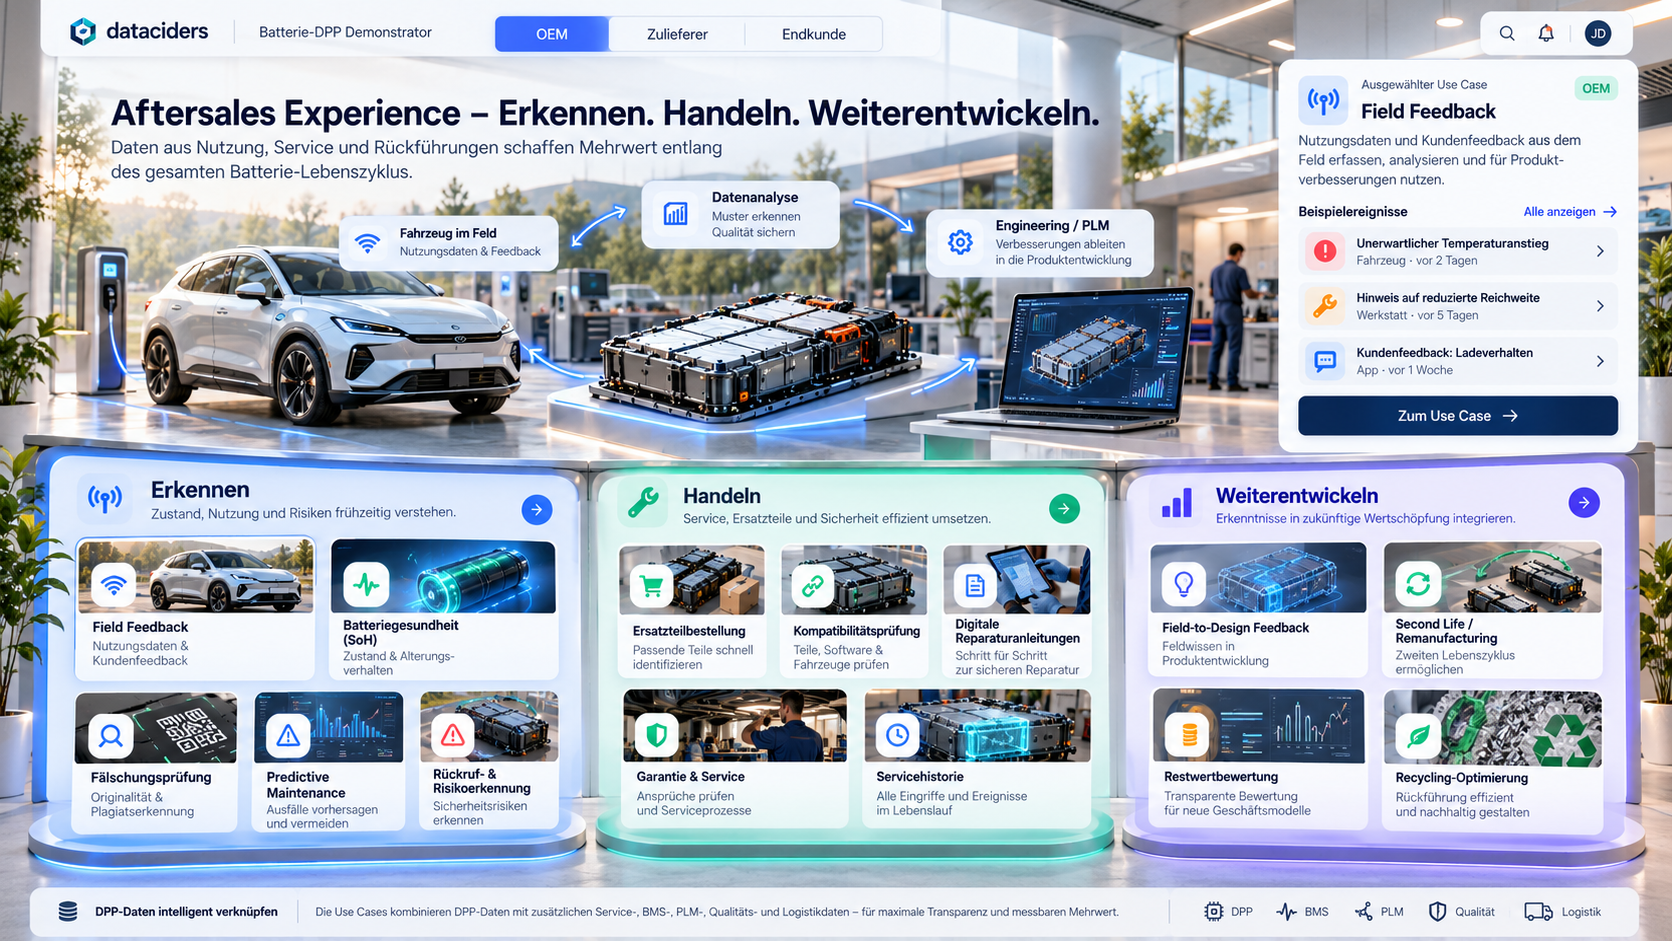
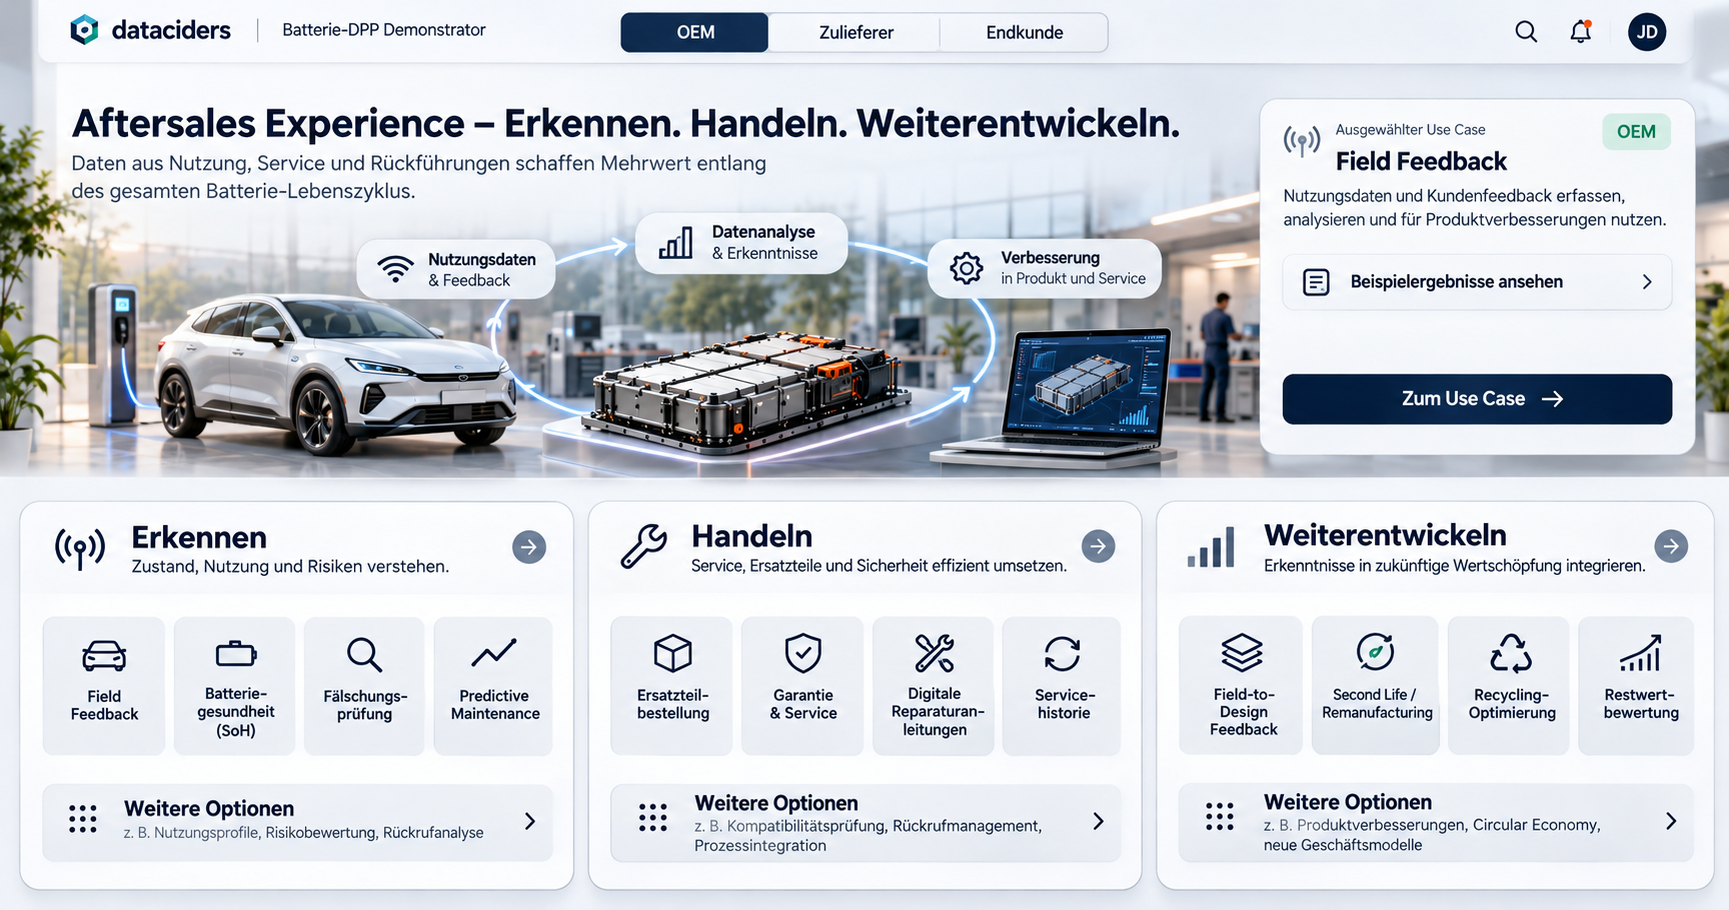
aftersales optimized

diff --git a/frontend/src/features/aftersales/AftersalesPage.tsx b/frontend/src/features/aftersales/AftersalesPage.tsx
@@ -1,15 +1,10 @@
+import { useDrawer } from '../../app/providers/DrawerProvider';
 import { ArrowChain } from '../../components/ui/Chain';
 import { Badge, DataValue } from '../../components/ui/DataValue';
 import { Icon, type IconName } from '../../components/ui/Icon';
 import { PageHero, SectionCard } from '../../components/ui/SectionCard';
-import { Tile } from '../../components/ui/Tile';
-import {
-  aftersalesEventKeys,
-  aftersalesFlowIds,
-  aftersalesGroups,
-  aftersalesSourceIds,
-} from '../../content/aftersales';
-import { useField, useSection } from '../../hooks/useContent';
+import { aftersalesFlowIds, aftersalesGroups, aftersalesSourceIds } from '../../content/aftersales';
+import { useSection } from '../../hooks/useContent';
 
 const GROUPS: { key: keyof typeof aftersalesGroups; title: string; sub: string; icon: IconName }[] = [
   { key: 'recognize', title: 'Erkennen', sub: 'Zustand, Nutzung und Risiken frühzeitig verstehen.', icon: 'pulse' },
@@ -17,11 +12,15 @@ const GROUPS: { key: keyof typeof aftersalesGroups; title: string; sub: string; 
   { key: 'improve', title: 'Weiterentwickeln', sub: 'Erkenntnisse in zukünftige Wertschöpfung integrieren.', icon: 'chart' },
 ];
 
+/** Je Gruppe erscheinen so viele Use Cases als Kachel, weitere als Zeile „Weitere Option“ darunter. */
+const TILES_PER_GROUP = 4;
+const FEATURED_USE_CASE_ID = 'aftersales.recognize.feedback';
+
 function FlowNode({ id }: { id: string }) {
   const s = useSection(id);
   return (
     <SectionCard id={id} className="flow-node">
-      <span className="chain__icon"><Icon name={s.icon ?? 'box'} size={22} /></span>
+      <span className="chain__icon"><Icon name={s.icon ?? 'box'} size={20} /></span>
       <span>
         <strong>{s.title}</strong>
         <span className="muted small flow-node__sub"><DataValue fieldKey={`${id}.sub`} /></span>
@@ -30,75 +29,104 @@ function FlowNode({ id }: { id: string }) {
   );
 }
 
-function EventRow({ fieldKey }: { fieldKey: string }) {
-  const f = useField(fieldKey);
+function FeaturedUseCase() {
+  const { openSection } = useDrawer();
+  const useCase = useSection(FEATURED_USE_CASE_ID);
   return (
-    <li className="event">
-      <span className={`dot dot--${f.tone ?? 'neutral'}`} />
-      <span>
-        <strong>{f.label}</strong>
-        <span className="muted small event__sub"><DataValue fieldKey={fieldKey} /></span>
+    <div className="card featured">
+      <div className="featured__head">
+        <span className="featured__icon"><Icon name="pulse" size={26} /></span>
+        <div>
+          <p className="muted small">Ausgewählter Use Case</p>
+          <h2>{useCase.title}</h2>
+        </div>
+        <Badge tone="ok">OEM</Badge>
+      </div>
+      <p className="muted">{useCase.summary}</p>
+      <button type="button" className="featured__row" onClick={() => openSection('aftersales.featured')}>
+        <Icon name="doc" />
+        <span>Beispielereignisse ansehen</span>
+        <Badge>Illustrativ</Badge>
+        <Icon name="chevron" size={16} />
+      </button>
+      <button type="button" className="btn btn--primary featured__cta" onClick={() => openSection(FEATURED_USE_CASE_ID)}>
+        Zum Use Case <Icon name="arrow" size={18} />
+      </button>
+    </div>
+  );
+}
+
+function UseCaseTile({ id }: { id: string }) {
+  const s = useSection(id);
+  return (
+    <SectionCard id={id} className="usecase">
+      <span className="usecase__icon"><Icon name={s.icon ?? 'box'} size={28} /></span>
+      <span className="usecase__title">{s.title}</span>
+    </SectionCard>
+  );
+}
+
+function MoreOption({ id }: { id: string }) {
+  const s = useSection(id);
+  return (
+    <SectionCard id={id} className="more-option">
+      <Icon name="dots" size={26} />
+      <span className="more-option__body">
+        <span className="muted small">Weitere Option</span>
+        <strong>{s.title}</strong>
       </span>
-    </li>
+      <Icon name="chevron" size={16} />
+    </SectionCard>
   );
 }
 
 export function AftersalesPage() {
   return (
     <div className="page">
-      <PageHero
-        title="Aftersales Experience"
-        strong="Erkennen. Handeln. Weiterentwickeln."
-        subtitle="Daten aus Nutzung, Service und Rückführungen schaffen Mehrwert entlang des gesamten Batterie-Lebenszyklus."
-      />
-
-      <div className="grid-aftersales-top">
-        <div className="card">
-          <h2 className="h-sm">Vom Feld zurück in die Entwicklung</h2>
-          <p className="muted">
-            Ein Kreislauf aus Beobachten, Auswerten und Verbessern: Was im Betrieb auffällt, wird analysiert und fließt als
-            Änderung in die nächste Produktrevision. Der Digitale Produktpass verknüpft alle Schritte mit demselben Produkt.
-          </p>
-          <ArrowChain ids={aftersalesFlowIds} className="flow">
-            {(id) => <FlowNode id={id} />}
-          </ArrowChain>
-        </div>
-
-        <SectionCard id="aftersales.featured" stretch={false}>
-          <div className="card__head">
-            <div>
-              <p className="muted small">Ausgewählter Use Case</p>
-              <h2>Field Feedback</h2>
-            </div>
-            <Badge tone="ok">OEM</Badge>
+      <section className="aftersales-stage">
+        <div className="aftersales-stage__main">
+          <PageHero
+            title="Aftersales Experience"
+            strong="Erkennen. Handeln. Weiterentwickeln."
+            subtitle="Daten aus Nutzung, Service und Rückführungen schaffen Mehrwert entlang des gesamten Batterie-Lebenszyklus."
+          />
+          <div className="aftersales-scene">
+            <ArrowChain ids={aftersalesFlowIds} className="flow">
+              {(id) => <FlowNode id={id} />}
+            </ArrowChain>
+            <img src="/images/aftersales/hero.webp" alt="" width="1000" height="160" />
           </div>
-          <p className="muted">Nutzungsdaten und Kundenfeedback aus dem Feld erfassen, analysieren und für Produktverbesserungen nutzen.</p>
-          <p className="small"><strong>Beispielereignisse</strong> <Badge>Illustrativ</Badge></p>
-          <ul className="events">
-            {aftersalesEventKeys.map((k) => (
-              <EventRow key={k} fieldKey={k} />
-            ))}
-          </ul>
-        </SectionCard>
-      </div>
+          <p className="muted small">
+            Vom Feld zurück in die Entwicklung: Was im Betrieb auffällt, wird analysiert und fließt als Änderung in die nächste
+            Produktrevision. Der Digitale Produktpass verknüpft alle Schritte mit demselben Produkt.
+          </p>
+        </div>
+        <FeaturedUseCase />
+      </section>
 
       <div className="grid-aftersales-groups">
-        {GROUPS.map((g) => (
-          <div key={g.key} className={`card group group--${g.key}`}>
-            <div className="group__head">
-              <span className="tile__icon"><Icon name={g.icon} /></span>
-              <div>
-                <h2>{g.title}</h2>
-                <p className="muted small">{g.sub}</p>
+        {GROUPS.map((g) => {
+          const ids = aftersalesGroups[g.key];
+          return (
+            <section key={g.key} className="card group" aria-labelledby={`group-${g.key}`}>
+              <div className="group__head">
+                <Icon name={g.icon} size={34} />
+                <div>
+                  <h2 id={`group-${g.key}`}>{g.title}</h2>
+                  <p className="muted small">{g.sub}</p>
+                </div>
               </div>
-            </div>
-            <div className="stack">
-              {aftersalesGroups[g.key].map((id) => (
-                <Tile key={id} id={id} fieldKey={`${id}.sub`} />
+              <div className="usecases">
+                {ids.slice(0, TILES_PER_GROUP).map((id) => (
+                  <UseCaseTile key={id} id={id} />
+                ))}
+              </div>
+              {ids.slice(TILES_PER_GROUP).map((id) => (
+                <MoreOption key={id} id={id} />
               ))}
-            </div>
-          </div>
-        ))}
+            </section>
+          );
+        })}
       </div>
 
       <div className="card">

diff --git a/frontend/src/content/aftersales.ts b/frontend/src/content/aftersales.ts
@@ -17,8 +17,8 @@ export const aftersalesFlowIds = c.group('aftersales.flow', flow, (r, id) => ({
 }));
 
 c.add('aftersales.featured', {
-  title: 'Ausgewählter Use Case: Field Feedback',
-  summary: 'Nutzungsdaten und Kundenfeedback aus dem Feld erfassen, analysieren und für Produktverbesserungen nutzen.',
+  title: 'Beispielereignisse: Field Feedback',
+  summary: 'Nutzungsdaten und Kundenfeedback aus dem Feld erfassen, analysieren und für Produktverbesserungen nutzen. Die Ereignisse unten sind illustrativ; echte Ereignisse setzen eine Serien- und Telemetrieanbindung voraus.',
   fields: [
     fld('aftersales.event.temp', 'Unerwarteter Temperaturanstieg', 'Fahrzeug · vor 2 Tagen', { src: 'BMS / IoT', tone: 'open' }),
     fld('aftersales.event.range', 'Hinweis auf reduzierte Reichweite', 'Werkstatt · vor 5 Tagen', { src: 'Service / CRM', tone: 'warn' }),
@@ -26,26 +26,27 @@ c.add('aftersales.featured', {
   ],
 });
 
+// \u00AD (weiches Trennzeichen) gibt in den schmalen Kacheln die Trennstelle vor.
 interface UseCaseRow { id: string; title: string; icon: IconName; sub: string; summary: string; src: string }
 const recognize: UseCaseRow[] = [
-  { id: 'feedback', title: 'Field Feedback', icon: 'pulse', sub: 'Nutzungsdaten & Kundenfeedback', summary: 'Rückmeldungen aus dem Feld werden gesammelt und klassifiziert.', src: 'BMS / CRM' },
-  { id: 'soh', title: 'Batteriegesundheit (SoH)', icon: 'battery', sub: 'Zustand & Alterungsverhalten', summary: 'Der State of Health beschreibt den Alterungszustand. Er braucht eine reale Serien- und Telemetrieanbindung.', src: 'BMS / IoT' },
-  { id: 'fake', title: 'Fälschungsprüfung', icon: 'search', sub: 'Originalität & Plagiatserkennung', summary: 'Über den Produktpass lässt sich die Echtheit einer Batterie prüfen.', src: 'DPP' },
+  { id: 'feedback', title: 'Field Feedback', icon: 'car', sub: 'Nutzungsdaten & Kundenfeedback', summary: 'Rückmeldungen aus dem Feld werden gesammelt und klassifiziert.', src: 'BMS / CRM' },
+  { id: 'soh', title: 'Batterie\u00ADgesundheit (SoH)', icon: 'battery', sub: 'Zustand & Alterungsverhalten', summary: 'Der State of Health beschreibt den Alterungszustand. Er braucht eine reale Serien- und Telemetrieanbindung.', src: 'BMS / IoT' },
+  { id: 'fake', title: 'Fälschungs\u00ADprüfung', icon: 'search', sub: 'Originalität & Plagiatserkennung', summary: 'Über den Produktpass lässt sich die Echtheit einer Batterie prüfen.', src: 'DPP' },
   { id: 'predictive', title: 'Predictive Maintenance', icon: 'chart', sub: 'Ausfälle vorhersagen und vermeiden', summary: 'Aus Telemetrie werden Ausfälle prognostiziert, bevor sie auftreten.', src: 'BMS / IoT' },
   { id: 'recall', title: 'Rückruf- & Risikoerkennung', icon: 'shield', sub: 'Sicherheitsrisiken erkennen', summary: 'Betroffene Chargen und Seriennummern lassen sich gezielt eingrenzen.', src: 'Qualität / DPP' },
 ];
 const act: UseCaseRow[] = [
-  { id: 'order', title: 'Ersatzteilbestellung', icon: 'box', sub: 'Passende Teile schnell identifizieren', summary: 'Über die Stückliste werden passende Ersatzteile gefunden.', src: 'PLM / Servicekatalog' },
-  { id: 'compat', title: 'Kompatibilitätsprüfung', icon: 'link', sub: 'Teile, Software & Fahrzeuge prüfen', summary: 'Prüft, ob ein Teil zu Produktrevision und Seriennummer passt.', src: 'PLM' },
-  { id: 'repair', title: 'Digitale Reparaturanleitungen', icon: 'doc', sub: 'Schritt für Schritt zur sicheren Reparatur', summary: 'Freigegebene Anleitungen je Produktrevision und Sprache.', src: 'PLM / DMS' },
+  { id: 'order', title: 'Ersatzteil\u00ADbestellung', icon: 'box', sub: 'Passende Teile schnell identifizieren', summary: 'Über die Stückliste werden passende Ersatzteile gefunden.', src: 'PLM / Servicekatalog' },
   { id: 'warranty', title: 'Garantie & Service', icon: 'shield', sub: 'Ansprüche prüfen und Serviceprozesse', summary: 'Garantiebedingungen und Serviceprozesse je Seriennummer und Markt.', src: 'Service / CRM' },
-  { id: 'history', title: 'Servicehistorie', icon: 'clock', sub: 'Alle Eingriffe und Ereignisse im Lebenslauf', summary: 'Lückenlose Historie von Reparaturen und Ereignissen.', src: 'Service / CRM' },
+  { id: 'repair', title: 'Digitale Reparatur\u00ADanleitungen', icon: 'doc', sub: 'Schritt für Schritt zur sicheren Reparatur', summary: 'Freigegebene Anleitungen je Produktrevision und Sprache.', src: 'PLM / DMS' },
+  { id: 'history', title: 'Service\u00ADhistorie', icon: 'clock', sub: 'Alle Eingriffe und Ereignisse im Lebenslauf', summary: 'Lückenlose Historie von Reparaturen und Ereignissen.', src: 'Service / CRM' },
+  { id: 'compat', title: 'Kompatibilitätsprüfung', icon: 'link', sub: 'Teile, Software & Fahrzeuge prüfen', summary: 'Prüft, ob ein Teil zu Produktrevision und Seriennummer passt.', src: 'PLM' },
 ];
 const improve: UseCaseRow[] = [
   { id: 'f2d', title: 'Field-to-Design Feedback', icon: 'gear', sub: 'Feldwissen in Produktentwicklung', summary: 'Feldbeobachtungen führen zu Änderungsanforderungen im Engineering.', src: 'PLM' },
-  { id: 'secondlife', title: 'Second Life / Remanufacturing', icon: 'recycle', sub: 'Zweiten Lebenszyklus ermöglichen', summary: 'Bewertet, ob eine Batterie weiterverwendet oder aufgearbeitet werden kann.', src: 'BMS / PLM' },
-  { id: 'residual', title: 'Restwertbewertung', icon: 'chart', sub: 'Transparente Bewertung für neue Geschäftsmodelle', summary: 'Der Restwert ergibt sich aus Zustand, Materialien und Nachfrage.', src: 'BMS / DPP' },
+  { id: 'secondlife', title: 'Second Life / Remanu\u00ADfacturing', icon: 'recycle', sub: 'Zweiten Lebenszyklus ermöglichen', summary: 'Bewertet, ob eine Batterie weiterverwendet oder aufgearbeitet werden kann.', src: 'BMS / PLM' },
   { id: 'recycling', title: 'Recycling-Optimierung', icon: 'leaf', sub: 'Rückführung effizient und nachhaltig gestalten', summary: 'Verbessert Demontage und Rückgewinnung mit Materialdaten aus dem Pass.', src: 'DPP / Logistik' },
+  { id: 'residual', title: 'Restwert\u00ADbewertung', icon: 'chart', sub: 'Transparente Bewertung für neue Geschäftsmodelle', summary: 'Der Restwert ergibt sich aus Zustand, Materialien und Nachfrage.', src: 'BMS / DPP' },
 ];
 function useCaseGroup(name: string, rows: UseCaseRow[]) {
   return c.group(`aftersales.${name}`, rows, (r, id) => ({
@@ -83,4 +84,3 @@ export const aftersalesSourceIds = c.group('aftersales.source', sources, (r, id)
 }));
 
 export const aftersalesContent = { fields: c.fields, sections: c.sections };
-export const aftersalesEventKeys = ['aftersales.event.temp', 'aftersales.event.range', 'aftersales.event.feedback'];

diff --git a/frontend/src/styles/pages.css b/frontend/src/styles/pages.css
@@ -365,19 +365,35 @@
 .dpp-mini__head { display: inline-flex; align-items: center; gap: 8px; margin-bottom: 6px; font-weight: 600; color: var(--muted); }
 
 /* Aftersales */
-.grid-aftersales-top { display: grid; grid-template-columns: 1.6fr 1fr; gap: 16px; align-items: stretch; }
-.flow { display: flex; flex-wrap: wrap; align-items: center; gap: 6px 0; margin: auto 0; }
-.flow-node { flex-direction: row; align-items: center; gap: 10px; padding: 10px 12px; width: 200px; }
-.flow-node__sub { display: block; }
-.events { display: flex; flex-direction: column; gap: 8px; }
-.event { display: flex; gap: 8px; align-items: flex-start; }
-.event .dot { margin-top: 6px; flex: none; }
-.event__sub { display: block; }
-.grid-aftersales-groups { display: grid; grid-template-columns: repeat(3, 1fr); gap: 16px; align-items: start; }
-.group__head { display: flex; gap: 12px; align-items: center; }
-.group--recognize { border-top: 4px solid #3b82f6; }
-.group--act { border-top: 4px solid #22c55e; }
-.group--improve { border-top: 4px solid #7c5cf0; }
+.aftersales-stage { display: grid; grid-template-columns: minmax(0, 1fr) 340px; gap: 24px; align-items: center; padding: 20px 22px; border: 1px solid var(--line); border-radius: var(--radius); background: linear-gradient(135deg, var(--surface) 0%, #eef3fb 60%, #e3ebf7 100%); box-shadow: var(--shadow); }
+.aftersales-stage__main { display: flex; flex-direction: column; gap: 10px; min-width: 0; }
+.aftersales-scene { display: flex; flex-direction: column; margin-top: 8px; }
+.aftersales-scene img { display: block; width: 100%; height: auto; margin-top: -26px; -webkit-mask-image: linear-gradient(180deg, transparent, #000 32%), linear-gradient(90deg, transparent, #000 6%, #000 94%, transparent); -webkit-mask-composite: source-in; mask-image: linear-gradient(180deg, transparent, #000 32%), linear-gradient(90deg, transparent, #000 6%, #000 94%, transparent); mask-composite: intersect; }
+.flow { position: relative; z-index: 1; display: flex; flex-wrap: wrap; justify-content: center; align-items: center; gap: 8px 0; }
+.flow .chain__step:nth-child(2) { margin-top: -18px; }
+.flow .chain__arrow { margin: 0 4px; }
+.flow-node { flex-direction: row; align-items: center; gap: 10px; padding: 8px 14px 8px 8px; max-width: 230px; }
+.flow-node .chain__icon { width: 38px; height: 38px; flex: none; }
+.flow-node strong { font-size: 14px; }
+.flow-node__sub { display: block; line-height: 1.3; }
+.featured { gap: 14px; padding: 20px; }
+.featured__head { display: grid; grid-template-columns: auto minmax(0, 1fr) auto; gap: 12px; align-items: start; }
+.featured__icon { color: var(--blue); padding-top: 4px; }
+.featured__head h2 { font-size: 21px; }
+.featured__row { display: flex; align-items: center; gap: 10px; width: 100%; padding: 12px 14px; border: 1px solid var(--line); border-radius: var(--radius-sm); background: var(--surface); font-weight: 600; text-align: left; }
+.featured__row:hover { background: var(--surface-2); }
+.featured__row > span:first-of-type { flex: 1; }
+.featured__cta { width: 100%; padding: 13px 14px; }
+.grid-aftersales-groups { display: grid; grid-template-columns: repeat(3, minmax(0, 1fr)); gap: 16px; }
+.group { gap: 16px; }
+.group__head { display: flex; gap: 14px; align-items: center; color: var(--navy); }
+.group__head h2 { font-size: 21px; }
+.usecases { display: grid; grid-template-columns: repeat(4, minmax(0, 1fr)); gap: 8px; }
+.usecase { align-items: center; gap: 8px; padding: 14px 6px 12px; text-align: center; background: var(--surface-2); box-shadow: none; }
+.usecase__icon { color: var(--navy); }
+.usecase__title { font-size: 12.5px; font-weight: 600; line-height: 1.25; overflow-wrap: break-word; hyphens: manual; }
+.more-option { flex-direction: row; align-items: center; gap: 12px; padding: 12px 14px; background: var(--surface-2); box-shadow: none; color: var(--navy); }
+.more-option__body { display: flex; flex-direction: column; flex: 1; min-width: 0; }
 .source { flex-direction: row; justify-content: space-between; align-items: center; padding: 12px 14px; }
 
 /* Responsive */
@@ -404,6 +420,8 @@
   .xray__lines { display: none; }
   .xray__arrow { transform: rotate(90deg); }
   .grid-tiles--5 { grid-template-columns: repeat(3, 1fr); }
+  .aftersales-stage { grid-template-columns: minmax(0, 1fr) 300px; }
+  .usecases { grid-template-columns: repeat(2, minmax(0, 1fr)); }
 }
 @media (max-width: 900px) {
   .grid-tiles--7 { grid-template-columns: repeat(2, minmax(0, 1fr)); }
@@ -416,7 +434,8 @@
   .topbar__nav { flex-wrap: wrap; }
   .switcher { overflow-x: auto; }
   .page { padding: 16px 14px 40px; }
-  .grid-oem-top, .grid-oem-mid, .grid-customer, .grid-supplier-mid, .grid-supplier-bottom, .grid-footprint-mid, .grid-aftersales-top, .grid-aftersales-groups { grid-template-columns: 1fr; }
+  .grid-oem-top, .grid-oem-mid, .grid-customer, .grid-supplier-mid, .grid-supplier-bottom, .grid-footprint-mid, .aftersales-stage, .grid-aftersales-groups { grid-template-columns: 1fr; }
+  .usecases { grid-template-columns: repeat(4, minmax(0, 1fr)); }
   .hero--visual { grid-template-columns: 1fr; }
   .photo-chain { grid-template-columns: repeat(auto-fit, minmax(120px, 1fr)); row-gap: 8px; }
   .photo-chain .chain__arrow { display: none; }
@@ -448,4 +467,10 @@
   .landscape__head { padding: 18px 14px 6px; }
   .seg button { padding: 7px 10px; font-size: 13px; }
   .grid-tiles--2, .grid-tiles--3, .grid-tiles--4, .grid-tiles--5, .metrics--3, .metrics--4, .metrics--5 { grid-template-columns: 1fr; }
+  .usecases { grid-template-columns: repeat(2, minmax(0, 1fr)); }
+  .flow { flex-direction: column; align-items: stretch; }
+  .flow .chain__step:nth-child(2) { margin-top: 0; }
+  .flow .chain__arrow { display: none; }
+  .flow-node { max-width: none; flex: 1; }
+  .aftersales-scene img { margin-top: 0; }
 }

diff --git a/frontend/src/components/ui/Icon.tsx b/frontend/src/components/ui/Icon.tsx
@@ -29,6 +29,7 @@ const PATHS = {
   atom: ['M12 13a1 1 0 1 0 0-2 1 1 0 0 0 0 2z', 'M12 21c2.2 0 4-4 4-9s-1.8-9-4-9-4 4-4 9 1.8 9 4 9z', 'M4.2 16.5c1.1 1.9 5.5 1.4 9.8-1.1s6.9-6 5.8-7.9-5.5-1.4-9.8 1.1-6.9 6-5.8 7.9z'],
   qr: ['M4 4h6v6H4zM14 4h6v6h-6zM4 14h6v6H4z', 'M14 14h3v3h-3zM19 14v2M14 19h3M19 19v1'],
   info: ['M12 21a9 9 0 1 0 0-18 9 9 0 0 0 0 18z', 'M12 11v5M12 8h.01'],
+  dots: ['M6 6h.01M12 6h.01M18 6h.01M6 12h.01M12 12h.01M18 12h.01M6 18h.01M12 18h.01M18 18h.01'],
 } as const;
 
 export type IconName = keyof typeof PATHS;
